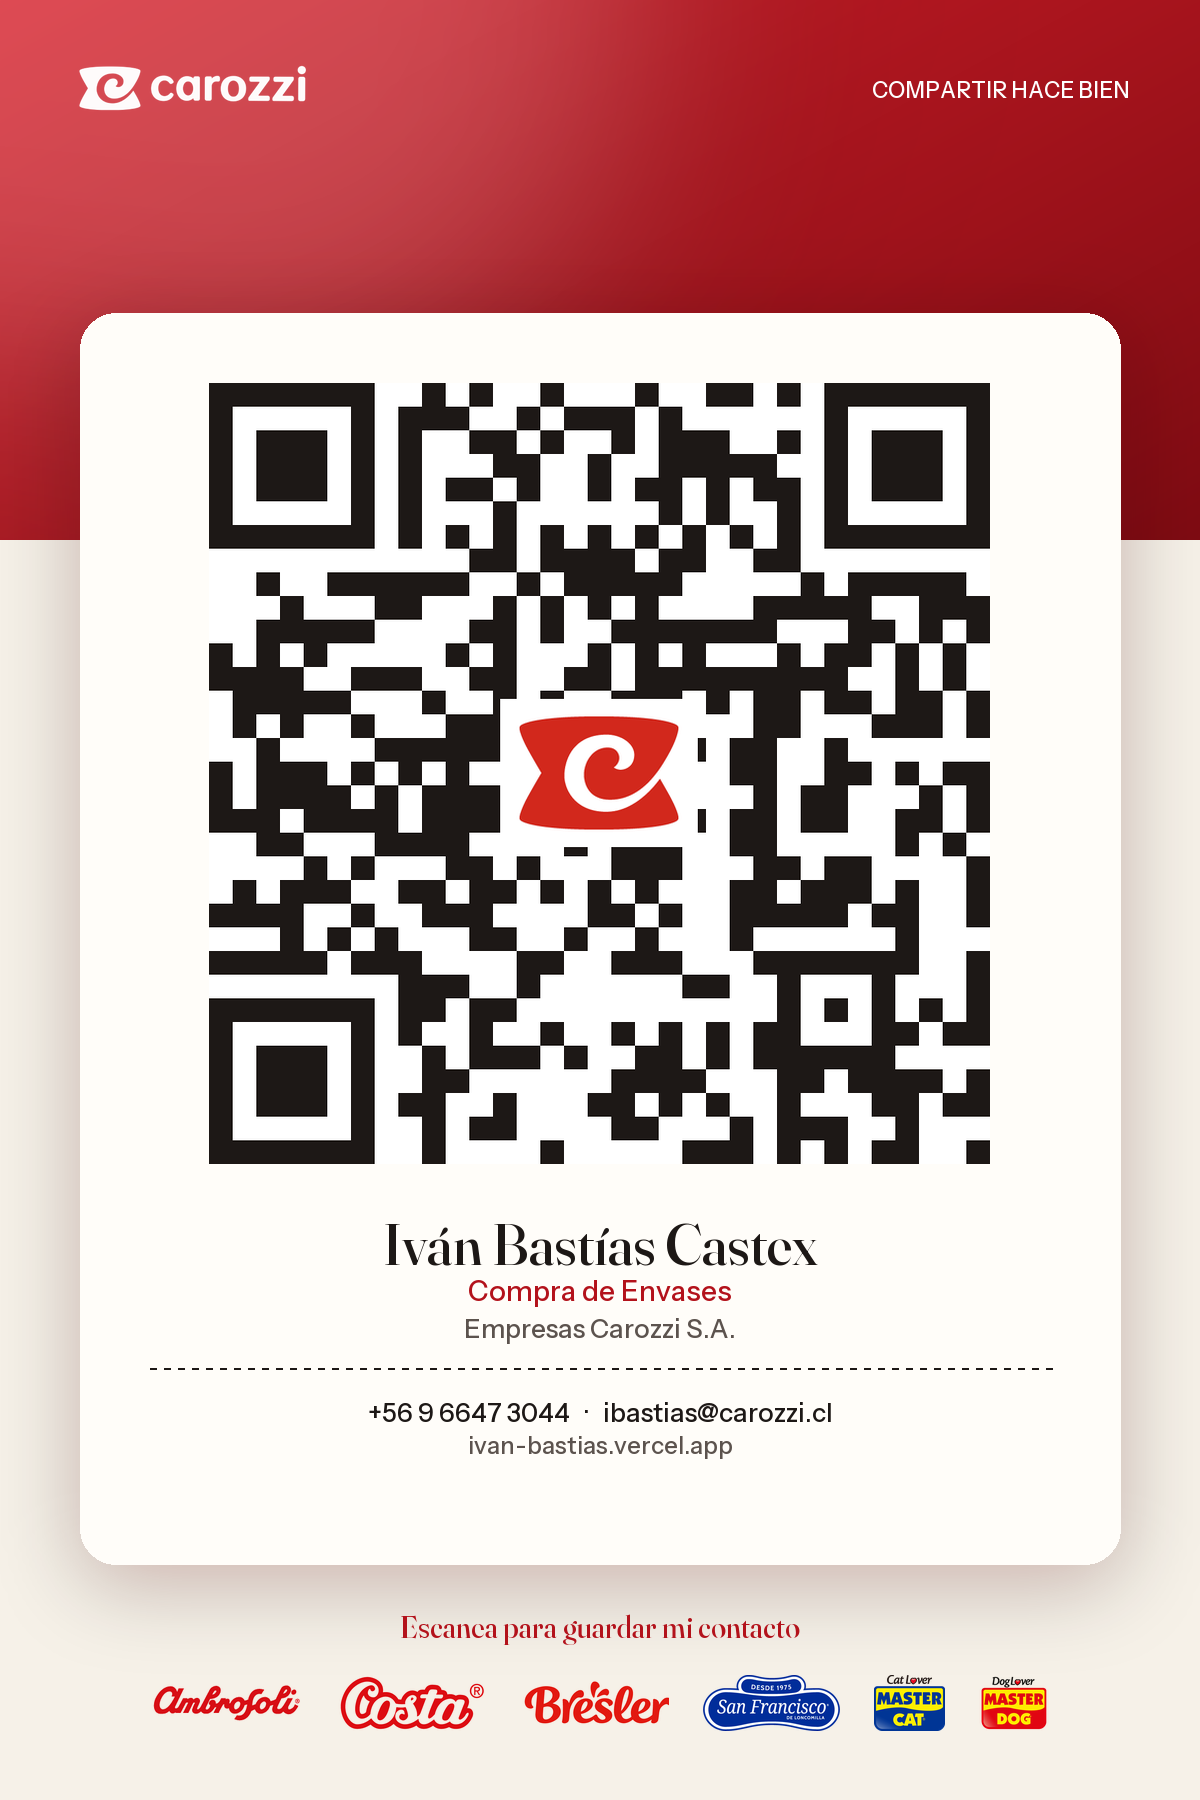
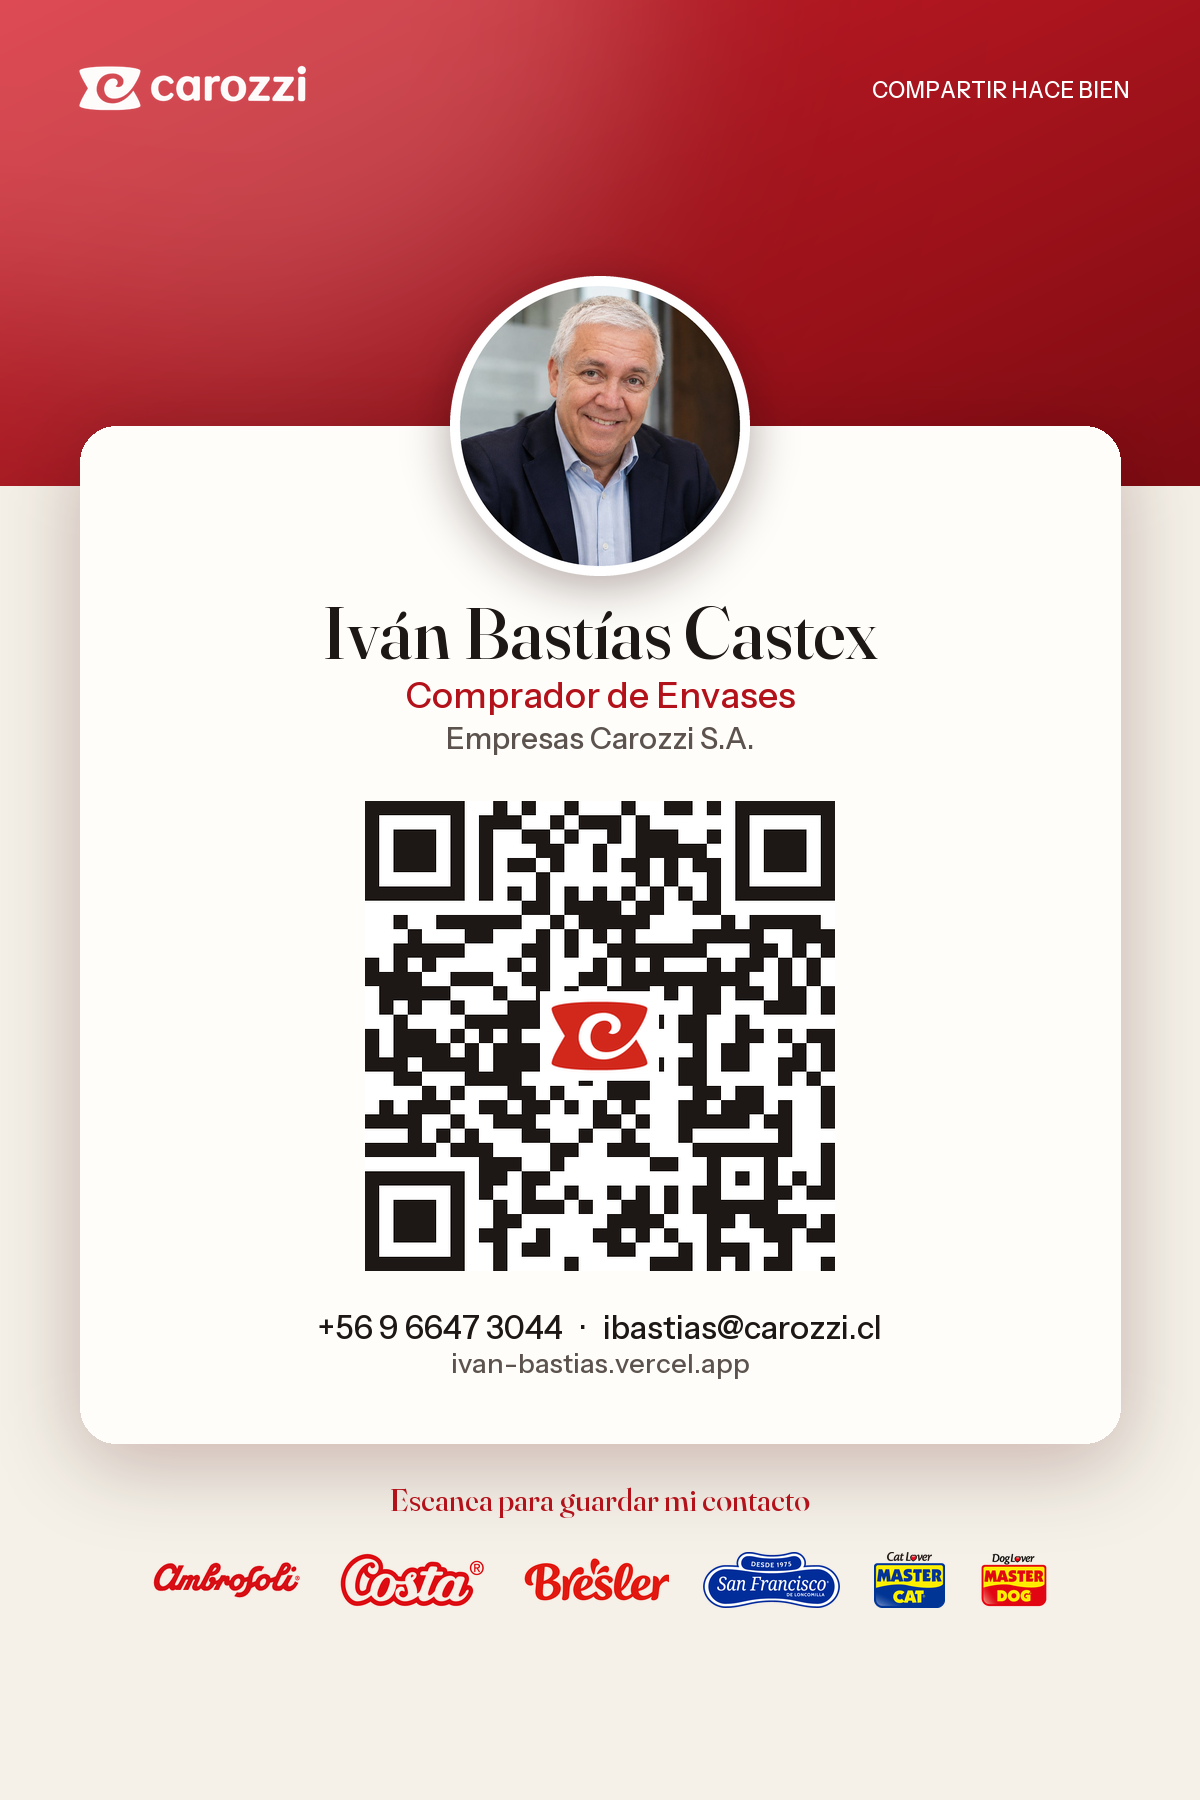
Cargo: Comprador de Envases; PNG con foto, QR compacto y texto grande

Changed region(s): [[0.0617, 0.1556, 1.0, 0.9644], [0.0, 0.2489, 0.0925, 0.3111], [0.1233, 0.9333, 0.2467, 0.9644]]

diff --git a/index.html b/index.html
@@ -3,12 +3,12 @@
 <head>
 <meta charset="utf-8">
 <meta name="viewport" content="width=device-width, initial-scale=1, viewport-fit=cover">
-<title>Iván Bastías Castex · Compra de Envases · Carozzi</title>
-<meta name="description" content="Tarjeta de contacto de Iván Bastías Castex, Compra de Envases en Empresas Carozzi. Guarda el contacto, escribe por WhatsApp o llama directo.">
+<title>Iván Bastías Castex · Comprador de Envases · Carozzi</title>
+<meta name="description" content="Tarjeta de contacto de Iván Bastías Castex, Comprador de Envases en Empresas Carozzi. Guarda el contacto, escribe por WhatsApp o llama directo.">
 <link rel="canonical" href="https://ivan-bastias.vercel.app/">
 <meta property="og:type" content="profile">
 <meta property="og:title" content="Iván Bastías Castex · Carozzi">
-<meta property="og:description" content="Compra de Envases · Empresas Carozzi. Toca para guardar el contacto.">
+<meta property="og:description" content="Comprador de Envases · Empresas Carozzi. Toca para guardar el contacto.">
 <meta property="og:image" content="https://ivan-bastias.vercel.app/assets/og.png?v=2">
 <meta property="og:url" content="https://ivan-bastias.vercel.app/">
 <meta property="og:locale" content="es_CL">
@@ -196,7 +196,7 @@ body::after{
       <img src="assets/foto.jpg?v=2" alt="" onerror="this.remove()">
     </div>
     <h1 class="nombre">Iván Bastías<br>Castex</h1>
-    <p class="cargo"><b data-i18n="cargo">Compra de Envases</b></p>
+    <p class="cargo"><b data-i18n="cargo">Comprador de Envases</b></p>
     <span class="empresa"><img src="assets/logos/carozzi.png" alt="">Empresas Carozzi S.A.</span>
   </section>
 
@@ -265,9 +265,9 @@ body::after{
 (function(){
   var url = "https://ivan-bastias.vercel.app/";
   var I18N = {
-    es: {lema:"Compartir hace bien", cargo:"Compra de Envases", guardar:"Guardar contacto", guardar_sub:"Se agrega a tu agenda con un toque", llamar:"Llamar", movil:"Móvil directo", email:"Email", llegar:"Cómo llegar", planta:"Planta Reñaca Alto", direccion:"Dirección", web:"Sitio web", marcas:"Marcas del grupo", compartir:"Compartir esta tarjeta", qr:"Escanea para abrir esta tarjeta", copiado:"Enlace copiado", wa:"Hola Iván, te escribo desde tu tarjeta digital.", share:"Contacto de Iván Bastías Castex, Compra de Envases en Carozzi", title:"Iván Bastías Castex · Compra de Envases · Carozzi", vcf:"ivan-bastias.vcf", html:"es"},
-    en: {lema:"Sharing does good", cargo:"Packaging Procurement", guardar:"Save contact", guardar_sub:"Added to your phone in one tap", llamar:"Call", movil:"Direct mobile", email:"Email", llegar:"Directions", planta:"Reñaca Alto plant", direccion:"Address", web:"Website", marcas:"Group brands", compartir:"Share this card", qr:"Scan to open this card", copiado:"Link copied", wa:"Hi Iván, I'm reaching out from your digital card.", share:"Contact details for Iván Bastías Castex, Packaging Procurement at Carozzi", title:"Iván Bastías Castex · Packaging Procurement · Carozzi", vcf:"ivan-bastias-en.vcf", html:"en"},
-    pt: {lema:"Compartilhar faz bem", cargo:"Compras de Embalagens", guardar:"Salvar contato", guardar_sub:"Vai para a sua agenda com um toque", llamar:"Ligar", movil:"Celular direto", email:"E-mail", llegar:"Como chegar", planta:"Fábrica Reñaca Alto", direccion:"Endereço", web:"Site", marcas:"Marcas do grupo", compartir:"Compartilhar este cartão", qr:"Escaneie para abrir este cartão", copiado:"Link copiado", wa:"Olá Iván, estou entrando em contato pelo seu cartão digital.", share:"Contato de Iván Bastías Castex, Compras de Embalagens na Carozzi", title:"Iván Bastías Castex · Compras de Embalagens · Carozzi", vcf:"ivan-bastias-pt.vcf", html:"pt-BR"}
+    es: {lema:"Compartir hace bien", cargo:"Comprador de Envases", guardar:"Guardar contacto", guardar_sub:"Se agrega a tu agenda con un toque", llamar:"Llamar", movil:"Móvil directo", email:"Email", llegar:"Cómo llegar", planta:"Planta Reñaca Alto", direccion:"Dirección", web:"Sitio web", marcas:"Marcas del grupo", compartir:"Compartir esta tarjeta", qr:"Escanea para abrir esta tarjeta", copiado:"Enlace copiado", wa:"Hola Iván, te escribo desde tu tarjeta digital.", share:"Contacto de Iván Bastías Castex, Comprador de Envases en Carozzi", title:"Iván Bastías Castex · Comprador de Envases · Carozzi", vcf:"ivan-bastias.vcf", html:"es"},
+    en: {lema:"Sharing does good", cargo:"Packaging Buyer", guardar:"Save contact", guardar_sub:"Added to your phone in one tap", llamar:"Call", movil:"Direct mobile", email:"Email", llegar:"Directions", planta:"Reñaca Alto plant", direccion:"Address", web:"Website", marcas:"Group brands", compartir:"Share this card", qr:"Scan to open this card", copiado:"Link copied", wa:"Hi Iván, I'm reaching out from your digital card.", share:"Contact details for Iván Bastías Castex, Packaging Buyer at Carozzi", title:"Iván Bastías Castex · Packaging Buyer · Carozzi", vcf:"ivan-bastias-en.vcf", html:"en"},
+    pt: {lema:"Compartilhar faz bem", cargo:"Comprador de Embalagens", guardar:"Salvar contato", guardar_sub:"Vai para a sua agenda com um toque", llamar:"Ligar", movil:"Celular direto", email:"E-mail", llegar:"Como chegar", planta:"Fábrica Reñaca Alto", direccion:"Endereço", web:"Site", marcas:"Marcas do grupo", compartir:"Compartilhar este cartão", qr:"Escaneie para abrir este cartão", copiado:"Link copiado", wa:"Olá Iván, estou entrando em contato pelo seu cartão digital.", share:"Contato de Iván Bastías Castex, Comprador de Embalagens na Carozzi", title:"Iván Bastías Castex · Comprador de Embalagens · Carozzi", vcf:"ivan-bastias-pt.vcf", html:"pt-BR"}
   };
   var cur = "es";
   function setLang(l){

diff --git a/scripts/make_png.py b/scripts/make_png.py
@@ -1,4 +1,4 @@
-"""PNG diseñado con el QR integrado: vertical (impresión) y cuadrado (WhatsApp)."""
+"""PNG diseñado con foto + QR: vertical (impresión / WhatsApp) y cuadrado (redes). QR compacto, texto grande."""
 from pathlib import Path
 from PIL import Image, ImageDraw, ImageFont, ImageFilter
 import segno
@@ -6,7 +6,9 @@ import segno
 ROOT = Path(__file__).resolve().parent.parent
 A, OUT = ROOT / "assets", ROOT / "entregables"
 URL = "https://ivan-bastias.vercel.app/"
-CREMA, PAPEL, ROJO, ROJO_OSC, TINTA, GRIS = (246,241,232), (255,253,249), (179,18,27), (126,11,18), (29,24,22), (92,83,78)
+CREMA, PAPEL, ROJO, TINTA, GRIS = (246,241,232), (255,253,249), (179,18,27), (29,24,22), (92,83,78)
+NOMBRE, CARGO, EMPRESA = "Iván Bastías Castex", "Comprador de Envases", "Empresas Carozzi S.A."
+FONO, MAIL, WEB = "+56 9 6647 3044", "ibastias@carozzi.cl", "ivan-bastias.vercel.app"
 
 def F(size, serif=True):
     return ImageFont.truetype(str(ROOT / ".venv" / ("fraunces.ttf" if serif else "instrumentsans.ttf")), size)
@@ -28,82 +30,114 @@ def qr_image(size):
     box.alpha_composite(lg, (pad, pad)); im.alpha_composite(box, ((im.width - box.width)//2, (im.height - box.height)//2))
     return im
 
+def circle_photo(diam, ring):
+    """Foto circular con anillo blanco y sombra suave (supersampleado para bordes limpios)."""
+    ss = 4; D = (diam + 2*ring) * ss
+    out = Image.new("RGBA", (D, D), (0,0,0,0)); d = ImageDraw.Draw(out)
+    d.ellipse((0, 0, D-1, D-1), fill=(255,255,255,255))
+    ph = Image.open(A / "foto.jpg").convert("RGBA").resize((diam*ss, diam*ss), Image.LANCZOS)
+    m = Image.new("L", (diam*ss, diam*ss), 0); ImageDraw.Draw(m).ellipse((0, 0, diam*ss-1, diam*ss-1), fill=255)
+    out.paste(ph, (ring*ss, ring*ss), m)
+    return out.resize((D//ss, D//ss), Image.LANCZOS)
+
+def paste_shadowed(canvas, im, xy, blur, alpha=90, dy=10):
+    sh = Image.new("RGBA", canvas.size, (0,0,0,0))
+    a = im.split()[3].point(lambda v: v * alpha // 255)
+    sh.paste((60,10,12,255), (xy[0], xy[1] + dy), a); sh = sh.filter(ImageFilter.GaussianBlur(blur))
+    canvas.alpha_composite(sh); canvas.alpha_composite(im, xy)
+
 def shadow_card(canvas, box, radius, blur=40, alpha=70, offset=(0, 18)):
     x0, y0, x1, y1 = box
     sh = Image.new("RGBA", canvas.size, (0,0,0,0)); d = ImageDraw.Draw(sh)
     d.rounded_rectangle((x0+offset[0], y0+offset[1], x1+offset[0], y1+offset[1]), radius, fill=(126,11,18,alpha))
     sh = sh.filter(ImageFilter.GaussianBlur(blur)); canvas.alpha_composite(sh)
-    d = ImageDraw.Draw(canvas); d.rounded_rectangle(box, radius, fill=PAPEL + (255,))
+    ImageDraw.Draw(canvas).rounded_rectangle(box, radius, fill=PAPEL + (255,))
 
 def header(canvas, h):
-    W = canvas.width; grad = Image.new("RGBA", (W, h))
-    px = grad.load()
+    W = canvas.width; grad = Image.new("RGBA", (W, h)); px = grad.load()
     for y in range(h):
-        for x in range(0, W):
+        for x in range(W):
             t = (x / W) * 0.55 + (y / h) * 0.45
             px[x, y] = (int(214 + (126-214)*t), int(31 + (11-31)*t), int(42 + (18-42)*t), 255)
     canvas.alpha_composite(grad, (0, 0))
-    glow = Image.new("RGBA", (W, h), (0,0,0,0)); gd = ImageDraw.Draw(glow)
-    gd.ellipse((-W*0.2, -h*0.9, W*0.6, h*0.9), fill=(255,255,255,50)); glow = glow.filter(ImageFilter.GaussianBlur(h*0.25))
-    canvas.alpha_composite(glow)
+    glow = Image.new("RGBA", (W, h), (0,0,0,0)); ImageDraw.Draw(glow).ellipse((-W*0.2, -h*0.9, W*0.6, h*0.9), fill=(255,255,255,50))
+    canvas.alpha_composite(glow.filter(ImageFilter.GaussianBlur(h*0.25)))
+
+def th(d, text, font):  # alto real del texto
+    bb = d.textbbox((0,0), text, font=font); return bb[3]-bb[1]
 
 def centered(d, y, text, font, fill, W):
-    bb = d.textbbox((0,0), text, font=font); d.text(((W - (bb[2]-bb[0]))/2 - bb[0], y), text, font=font, fill=fill)
-    return bb[3]-bb[1]
+    bb = d.textbbox((0,0), text, font=font); d.text(((W - (bb[2]-bb[0]))/2 - bb[0], y - bb[1]), text, font=font, fill=fill); return bb[3]-bb[1]
 
 def leftcol(d, x, y, text, font, fill):
     bb = d.textbbox((0,0), text, font=font); d.text((x - bb[0], y - bb[1]), text, font=font, fill=fill); return bb[3]-bb[1]
 
-def render(W, H, name, layout="vertical"):
+def dashed(d, x0, x1, y, S):
+    for x in range(x0, x1, int(14*S)): d.line((x, y, x + int(6*S), y), fill=(29,24,22,40), width=max(1, int(2*S)))
+
+def base(W, H):
     S = W / 1200
     c = Image.new("RGBA", (W, H), CREMA + (255,))
-    hh = int(0.30 * H); header(c, hh)
+    hh = int(0.27 * H); header(c, hh)
     lg = fit(tint_white(A / "logos/carozzi.png"), h=int(48*S)); c.alpha_composite(lg, (int(70*S), int(64*S)))
-    d = ImageDraw.Draw(c)
-    fl = F(int(22*S), serif=False); txt = "COMPARTIR HACE BIEN"
+    d = ImageDraw.Draw(c); fl = F(int(22*S), serif=False); txt = "COMPARTIR HACE BIEN"
     bb = d.textbbox((0,0), txt, font=fl); d.text((W - int(70*S) - (bb[2]-bb[0]), int(76*S)), txt, font=fl, fill=(255,255,255,220))
-    m = int(80*S); top = int(hh - 0.42*hh); pie = int(236*S)
-    if layout == "vertical":
-        pad_top, pad_bot, gap_qr, textos = int(70*S), int(56*S), int(44*S), int(300*S)
-        qs = int(min(W - 2*m - 2*int(120*S), H - top - pad_top - gap_qr - textos - pad_bot - pie))
-        qr = fit(qr_image(qs), w=qs)
-        bottom = top + pad_top + qr.height + gap_qr + textos + pad_bot
-        shadow_card(c, (m, top, W - m, bottom), int(36*S), blur=int(40*S))
-        qx, qy = (W - qr.width)//2, top + pad_top; c.alpha_composite(qr, (qx, qy))
-        d = ImageDraw.Draw(c); y = qy + qr.height + gap_qr
-        y += centered(d, y, "Iván Bastías Castex", F(int(58*S)), TINTA, W) + int(22*S)
-        y += centered(d, y, "Compra de Envases", F(int(28*S), False), ROJO, W) + int(12*S)
-        y += centered(d, y, "Empresas Carozzi S.A.", F(int(26*S), False), GRIS, W) + int(30*S)
-        for x in range(m + int(70*S), W - m - int(70*S), int(14*S)): d.line((x, y, x + int(6*S), y), fill=(29,24,22,40), width=max(1, int(2*S)))
-        y += int(28*S)
-        y += centered(d, y, "+56 9 6647 3044   ·   ibastias@carozzi.cl", F(int(26*S), False), TINTA, W) + int(14*S)
-        centered(d, y, "ivan-bastias.vercel.app", F(int(24*S), False), GRIS, W)
-    else:
-        bottom = H - pie; pad = int(64*S)
-        shadow_card(c, (m, top, W - m, bottom), int(36*S), blur=int(40*S))
-        qs = int(min(bottom - top - 2*pad, W * 0.40)); qr = fit(qr_image(qs), w=qs)
-        qx, qy = m + pad, top + (bottom - top - qr.height)//2; c.alpha_composite(qr, (qx, qy))
-        d = ImageDraw.Draw(c); x = qx + qr.width + int(60*S)
-        # medir bloque de texto para centrarlo verticalmente
-        fn, fc, fe, ft, fu = F(int(50*S)), F(int(24*S), False), F(int(22*S), False), F(int(22*S), False), F(int(20*S), False)
-        lines = [("Iván Bastías", fn, TINTA, int(4*S)), ("Castex", fn, TINTA, int(18*S)), ("Compra de Envases", fc, ROJO, int(10*S)),
-                 ("Empresas Carozzi S.A.", fe, GRIS, int(26*S)), ("---", None, None, int(24*S)),
-                 ("+56 9 6647 3044", ft, TINTA, int(10*S)), ("ibastias@carozzi.cl", ft, TINTA, int(12*S)), ("ivan-bastias.vercel.app", fu, GRIS, 0)]
-        total = sum(((d.textbbox((0,0), t, font=f)[3]-d.textbbox((0,0), t, font=f)[1]) if f else 0) + g for t, f, _, g in lines)
-        y = top + (bottom - top - total)//2
-        for t, f, col, g in lines:
-            if f is None:
-                for xx in range(x, W - m - int(60*S), int(14*S)): d.line((xx, y, xx + int(6*S), y), fill=(29,24,22,40), width=max(1, int(2*S)))
-            else:
-                y += leftcol(d, x, y, t, f, col)
-            y += g
-    py = bottom + int(44*S)
-    py += centered(d, py, "Escanea para guardar mi contacto", F(int(30*S)), ROJO, W) + int(36*S)
+    return c, S, hh
+
+def footer(c, bottom, S):
+    W = c.width; d = ImageDraw.Draw(c); py = bottom + int(44*S)
+    py += centered(d, py, "Escanea para guardar mi contacto", F(int(32*S)), ROJO, W) + int(34*S)
     logos = [fit(Image.open(A / f"logos/{n}.png").convert("RGBA"), w=int(150*S), h=int(56*S)) for n in ["ambrosoli","costa","bresler","san-francisco","master-cat","master-dog"]]
     gap = int(34*S); tw = sum(l.width for l in logos) + gap*(len(logos)-1); x = (W - tw)//2
     for l in logos:
         c.alpha_composite(l, (x, py + (int(56*S) - l.height)//2)); x += l.width + gap
+
+def vertical(name):
+    W, H = 1200, 1800; c, S, hh = base(W, H); d = ImageDraw.Draw(c)
+    m = 80; diam, ring = 280, 10; top = hh - 60
+    fn, fc, fe, ft, fu = F(74), F(36, False), F(30, False), F(32, False), F(27, False)
+    qs = 470
+    # altura de la tarjeta calculada desde el contenido
+    inner = diam//2 + 40 + th(d, NOMBRE, fn) + 22 + th(d, CARGO, fc) + 12 + th(d, EMPRESA, fe) + 46 + qs + 44 + th(d, FONO, ft) + 14 + th(d, WEB, fu) + 64
+    bottom = top + inner
+    shadow_card(c, (m, top, W - m, bottom), 36)
+    ph = circle_photo(diam, ring); paste_shadowed(c, ph, ((W - ph.width)//2, top - ph.height//2), blur=22)
+    y = top + diam//2 + 40
+    y += centered(d, y, NOMBRE, fn, TINTA, W) + 22
+    y += centered(d, y, CARGO, fc, ROJO, W) + 12
+    y += centered(d, y, EMPRESA, fe, GRIS, W) + 46
+    qr = fit(qr_image(qs), w=qs); c.alpha_composite(qr, ((W - qr.width)//2, y)); y += qr.height + 44
+    d = ImageDraw.Draw(c)
+    y += centered(d, y, FONO + "   ·   " + MAIL, ft, TINTA, W) + 14
+    centered(d, y, WEB, fu, GRIS, W)
+    footer(c, bottom, S)
+    c.convert("RGB").save(OUT / name, optimize=True); print("OK", name, (W, H), "tarjeta hasta", bottom)
+
+def cuadrada(name):
+    W, H = 1500, 1500; c, S, hh = base(W, H); d = ImageDraw.Draw(c)
+    m = 100; pad = 80; top = hh - 70; bottom = H - int(236*S); 
+    shadow_card(c, (m, top, W - m, bottom), 44)
+    # columna derecha: QR compacto
+    qs = 460; qr = fit(qr_image(qs), w=qs); qx = W - m - pad - qr.width; qy = top + (bottom - top - qr.height)//2
+    c.alpha_composite(qr, (qx, qy)); d = ImageDraw.Draw(c)
+    # columna izquierda: foto + textos grandes
+    x = m + pad; diam, ring = 230, 9
+    fn, fc, fe, ft, fu = F(72), F(36, False), F(30, False), F(31, False), F(27, False)
+    n1, n2 = "Iván Bastías", "Castex"
+    block = diam + 2*ring + 34 + th(d, n1, fn) + 6 + th(d, n2, fn) + 22 + th(d, CARGO, fc) + 12 + th(d, EMPRESA, fe) + 34 + 34 + th(d, FONO, ft) + 12 + th(d, MAIL, ft) + 14 + th(d, WEB, fu)
+    y = top + (bottom - top - block)//2
+    ph = circle_photo(diam, ring); paste_shadowed(c, ph, (x - ring, y), blur=18); y += ph.height + 34
+    d = ImageDraw.Draw(c)
+    y += leftcol(d, x, y, n1, fn, TINTA) + 6
+    y += leftcol(d, x, y, n2, fn, TINTA) + 22
+    y += leftcol(d, x, y, CARGO, fc, ROJO) + 12
+    y += leftcol(d, x, y, EMPRESA, fe, GRIS) + 34
+    dashed(d, x, qx - 60, y, S); y += 34
+    y += leftcol(d, x, y, FONO, ft, TINTA) + 12
+    y += leftcol(d, x, y, MAIL, ft, TINTA) + 14
+    leftcol(d, x, y, WEB, fu, GRIS)
+    footer(c, bottom, S)
     c.convert("RGB").save(OUT / name, optimize=True); print("OK", name, (W, H))
 
-render(1200, 1800, "1-tarjeta-vertical.png")
-render(1500, 1500, "2-tarjeta-cuadrada.png", layout="horizontal")
+vertical("1-tarjeta-vertical.png")
+cuadrada("2-tarjeta-cuadrada.png")

diff --git a/scripts/make_tarjeta.py b/scripts/make_tarjeta.py
@@ -33,7 +33,7 @@ renderPDF.draw(qr, c, 11 * mm, (H - 32 * mm) / 2)
 # textos
 x = 50 * mm
 c.setFillColor(TINTA); c.setFont(F_SERIF, 12.5); c.drawString(x, 38 * mm, "Iván Bastías"); c.drawString(x, 32.5 * mm, "Castex")
-c.setFillColor(ROJO); c.setFont(F_SANS, 7.5); c.drawString(x, 26.5 * mm, "Compra de Envases")
+c.setFillColor(ROJO); c.setFont(F_SANS, 7.5); c.drawString(x, 26.5 * mm, "Comprador de Envases")
 c.setFillColor(GRIS); c.setFont(F_SANS, 7); c.drawString(x, 22.5 * mm, "Empresas Carozzi S.A.")
 c.setFont(F_SANS, 6.5); c.drawString(x, 15 * mm, "+56 9 6647 3044"); c.drawString(x, 11.5 * mm, "ibastias@carozzi.cl")
 c.setFillColor(ROJO); c.setFont(F_SANS, 5.5); c.drawString(x, 6 * mm, "Escanea para guardar mi contacto")

diff --git a/scripts/make_social.py b/scripts/make_social.py
@@ -47,7 +47,7 @@ else:
 fn = font(64); fs = font(30, serif=False); fk = font(22, serif=False)
 d.text((560, 170), "Iván Bastías", font=fn, fill="#1d1816")
 d.text((560, 245), "Castex", font=fn, fill="#1d1816")
-d.text((560, 345), "Compra de Envases", font=fs, fill="#b3121b")
+d.text((560, 345), "Comprador de Envases", font=fs, fill="#b3121b")
 d.text((560, 390), "Empresas Carozzi S.A.", font=fs, fill="#5c534e")
 d.text((560, 480), "+56 9 6647 3044  ·  ibastias@carozzi.cl", font=fk, fill="#5c534e")
 d.text((560, 520), "Toca para guardar el contacto", font=fk, fill="#5c534e")
